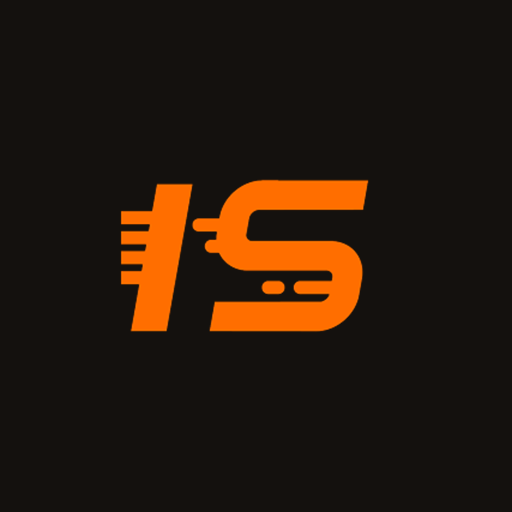
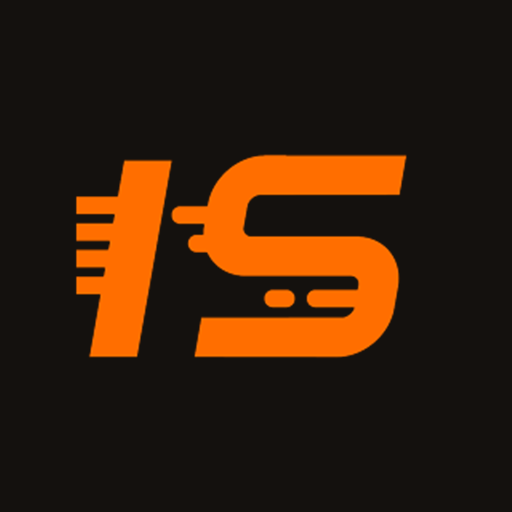
OS: icono mas grande + maskable; renombra Recepcion a Agendamiento y reordena; roles por correo (administrativa limitada); sesion persistente; abono y tipo de venta (regalo/sorteo)

Changed region(s): [[0.125, 0.2812, 0.8125, 0.7188]]

diff --git a/os/index.html b/os/index.html
@@ -322,13 +322,13 @@
     <div class="top-in">
       <div class="logo"><span class="dot"></span> IS&nbsp;Performance <small>OS · prototipo</small></div>
       <nav class="tabs" id="tabs">
-        <button data-view="recepcion" class="active">➕ Recepción</button>
+        <button data-view="recepcion" class="active">➕ Agendamiento</button>
+        <button data-view="agenda">📅 Agenda</button>
         <button data-view="seguimiento">🔧 Seguimiento</button>
+        <button data-view="clientes">👥 Clientes</button>
         <button data-view="cobro">💵 Cobro</button>
         <button data-view="costos">💰 Costos</button>
         <button data-view="panel">📊 Panel</button>
-        <button data-view="clientes">👥 Clientes</button>
-        <button data-view="agenda">📅 Agenda</button>
       </nav>
       <span class="navuser" id="nav-user-name"></span>
       <button class="logout" id="logout-btn" title="Cerrar sesión">Salir</button>
@@ -340,7 +340,7 @@
 
     <!-- ============ RECEPCIÓN ============ -->
     <section class="view active" id="view-recepcion">
-      <div class="vhead"><div class="eye">Entrada</div><h1>Recepción de vehículo</h1><p>Registra el auto que llega. Escribe y avanza con <b>Tab</b>. Los costos y el cobro van en su propia pestaña.</p></div>
+      <div class="vhead"><div class="eye">Agendamiento</div><h1>Agendar vehículo</h1><p>Registra la cita del auto. Escribe y avanza con <b>Tab</b>. Los costos y el cobro van en su propia pestaña.</p></div>
       <form id="form" class="formgrid" autocomplete="off">
         <div class="panel">
           <div class="fieldset">
@@ -377,6 +377,10 @@
             <div class="row c2">
               <label class="f"><span class="lab">Fecha coordinada</span><input name="fCoord" type="date"></label>
               <label class="f"><span class="lab">Hora coordinada</span><input name="hCoord" type="time"></label>
+            </div>
+            <div class="row c2" style="margin-top:12px">
+              <label class="f"><span class="lab">Tipo</span><select name="tipoVenta"><option>NORMAL</option><option>REGALO</option><option>SORTEO</option><option>CORTESÍA</option><option>GARANTÍA</option></select></label>
+              <label class="f"><span class="lab">Abono / anticipo $</span><input name="abono" type="number" min="0" step="1000" placeholder="0"></label>
             </div>
           </div>
         </div>
@@ -535,8 +539,8 @@
   var data = [];  // se carga desde Supabase al iniciar sesión
 
   // ---- mapeo entre el panel (camelCase) y las columnas de la base (snake_case) ----
-  function vehToDB(e){ return { marca:e.marca||null, modelo:e.modelo||null, patente:e.patente||null, anio_veh:e.anioVeh||null, talla:e.talla||'M', cliente:e.cliente||null, contacto:e.contacto||null, servicios:e.servicios||[], estado:e.estado||'AGENDADO', trabajador:e.trabajador||null, f_coord:e.fCoord||null, h_coord:e.hCoord||null, f_ingreso:e.fIngreso||null, h_ingreso:e.hIngreso||null, f_inicio:e.fInicio||null, h_inicio:e.hInicio||null, f_salida:e.fSalida||null, h_salida:e.hSalida||null, t_muerto:e.tMuerto||0, doc_tipo:e.docTipo||'BOLETA', modo_pago:e.modoPago||null, aplica_bono:e.aplicaBono||'NO', precio_venta:e.precioVenta||0, costo_producto:e.costoProducto||0, envio:e.envio||0, costo_externo:e.costoExterno||0, costo_empresa:e.costoEmpresa||0, cobrado:!!e.cobrado }; }
-  function vehFromDB(r){ return { id:r.id, marca:r.marca||"", modelo:r.modelo||"", patente:r.patente||"", anioVeh:r.anio_veh||0, talla:r.talla||"M", cliente:r.cliente||"", contacto:r.contacto||"", servicios:r.servicios||[], estado:r.estado||"AGENDADO", trabajador:r.trabajador||"", fCoord:r.f_coord||"", hCoord:r.h_coord||"", fIngreso:r.f_ingreso||"", hIngreso:r.h_ingreso||"", fInicio:r.f_inicio||"", hInicio:r.h_inicio||"", fSalida:r.f_salida||"", hSalida:r.h_salida||"", tMuerto:r.t_muerto||0, docTipo:r.doc_tipo||"BOLETA", modoPago:r.modo_pago||"", aplicaBono:r.aplica_bono||"NO", precioVenta:r.precio_venta||0, costoProducto:r.costo_producto||0, envio:r.envio||0, costoExterno:r.costo_externo||0, costoEmpresa:r.costo_empresa||0, cobrado:!!r.cobrado, media:[] }; }
+  function vehToDB(e){ return { marca:e.marca||null, modelo:e.modelo||null, patente:e.patente||null, anio_veh:e.anioVeh||null, talla:e.talla||'M', cliente:e.cliente||null, contacto:e.contacto||null, servicios:e.servicios||[], estado:e.estado||'AGENDADO', trabajador:e.trabajador||null, f_coord:e.fCoord||null, h_coord:e.hCoord||null, f_ingreso:e.fIngreso||null, h_ingreso:e.hIngreso||null, f_inicio:e.fInicio||null, h_inicio:e.hInicio||null, f_salida:e.fSalida||null, h_salida:e.hSalida||null, t_muerto:e.tMuerto||0, doc_tipo:e.docTipo||'BOLETA', modo_pago:e.modoPago||null, aplica_bono:e.aplicaBono||'NO', tipo_venta:e.tipoVenta||'NORMAL', abono:e.abono||0, precio_venta:e.precioVenta||0, costo_producto:e.costoProducto||0, envio:e.envio||0, costo_externo:e.costoExterno||0, costo_empresa:e.costoEmpresa||0, cobrado:!!e.cobrado }; }
+  function vehFromDB(r){ return { id:r.id, marca:r.marca||"", modelo:r.modelo||"", patente:r.patente||"", anioVeh:r.anio_veh||0, talla:r.talla||"M", cliente:r.cliente||"", contacto:r.contacto||"", servicios:r.servicios||[], estado:r.estado||"AGENDADO", trabajador:r.trabajador||"", fCoord:r.f_coord||"", hCoord:r.h_coord||"", fIngreso:r.f_ingreso||"", hIngreso:r.h_ingreso||"", fInicio:r.f_inicio||"", hInicio:r.h_inicio||"", fSalida:r.f_salida||"", hSalida:r.h_salida||"", tMuerto:r.t_muerto||0, docTipo:r.doc_tipo||"BOLETA", modoPago:r.modo_pago||"", aplicaBono:r.aplica_bono||"NO", tipoVenta:r.tipo_venta||"NORMAL", abono:r.abono||0, precioVenta:r.precio_venta||0, costoProducto:r.costo_producto||0, envio:r.envio||0, costoExterno:r.costo_externo||0, costoEmpresa:r.costo_empresa||0, cobrado:!!r.cobrado, media:[] }; }
   function relojFromDB(r){ return {id:r.id, trab:r.trabajador, fecha:r.fecha, hIn:r.h_in||"", hOut:r.h_out||"", desc:r.descanso||0}; }
   function gastoFromDB(r){ return {id:r.id, con:r.concepto, tipo:r.tipo, monto:r.monto, fecha:r.fecha}; }
   function sbc(){ return window.ISP_SB; }
@@ -579,6 +583,15 @@
     }
   }).catch(function(){ toast('⚠ No se pudieron cargar los datos. Recarga la página.'); }); }
   window.ISP_onLogin=loadAllData;
+
+  // ---- roles: qué pestañas ve cada correo (vacío/no listado = ve todo) ----
+  var ROLES={ 'administrativa@innovaservi.com':['recepcion','agenda','seguimiento','clientes'] };
+  function applyRole(email){
+    var allowed=ROLES[(email||'').toLowerCase()];
+    tabsEl.querySelectorAll('button').forEach(function(b){ b.style.display=(!allowed||allowed.indexOf(b.dataset.view)>=0)?'':'none'; });
+    if(allowed && allowed.indexOf(state.view)<0){ var fb=tabsEl.querySelector('button[data-view="'+allowed[0]+'"]'); if(fb) fb.click(); }
+  }
+  window.ISP_applyRole=applyRole;
   var state={ view:"recepcion", cobroSel:null, kpiOpen:null, calRef:new Date(), periodo:"mes", clienteSel:null, clienteBuscar:"" };
   var clientesInfo={};  // observaciones por cliente (tabla clientes)
 
@@ -653,7 +666,8 @@
     ev.preventDefault();
     var e={id:Date.now(),estado:"AGENDADO",cobrado:false,servicios:chosenSvcs.slice(),media:[],
       trabajador:"",fIngreso:"",hIngreso:"",fInicio:"",hInicio:"",fSalida:"",hSalida:"",tMuerto:0,docTipo:"BOLETA",modoPago:"",aplicaBono:"NO",precioVenta:0,costoProducto:0,envio:0,costoExterno:0,costoEmpresa:0};
-    ["marca","modelo","patente","anioVeh","talla","cliente","contacto","fCoord","hCoord"].forEach(function(k){ e[k]=form[k]?form[k].value:""; });
+    ["marca","modelo","patente","anioVeh","talla","cliente","contacto","fCoord","hCoord","tipoVenta"].forEach(function(k){ e[k]=form[k]?form[k].value:""; });
+    e.abono=parseFloat(form.abono.value)||0;
     e.anioVeh=parseFloat(e.anioVeh)||0; e.patente=(e.patente||"").toUpperCase();
     addVehiculo(e);
     chosenSvcs=[]; renderSvcList();
@@ -784,14 +798,15 @@
     if(!e.precioVenta){ e.precioVenta=sugerirPrecio(e); } // sugiere precio desde el catálogo según talla
     wrap.innerHTML=
     '<div class="formgrid"><div class="panel">'+
-      '<div class="fieldset"><div class="fs-title"><span class="i">▸</span> '+e.marca+' '+(e.modelo||"")+' · '+(e.patente||"—")+'</div>'+
+      '<div class="fieldset"><div class="fs-title"><span class="i">▸</span> '+e.marca+' '+(e.modelo||"")+' · '+(e.patente||"—")+(e.tipoVenta&&e.tipoVenta!=="NORMAL"?' <span class="chip pend" style="margin-left:6px">'+e.tipoVenta+'</span>':'')+'</div>'+
         '<div class="row c3">'+
           field("Documento","docTipo","select",e.docTipo,["BOLETA","FACTURA"])+
           field("Modo de pago","modoPago","select",e.modoPago,["","TRANSFERENCIA","EFECTIVO","DÉBITO","CRÉDITO"])+
-          field("Aplica bono","aplicaBono","select",e.aplicaBono,["NO","SI"])+
+          field("Tipo","tipoVenta","select",e.tipoVenta,["NORMAL","REGALO","SORTEO","CORTESÍA","GARANTÍA"])+
         '</div>'+
-        '<div class="row c2" style="margin-top:12px">'+
+        '<div class="row c3" style="margin-top:12px">'+
           field("Precio venta","precioVenta","number",e.precioVenta)+
+          field("Abono / anticipo","abono","number",e.abono)+
           '<label class="f"><span class="lab">Documento adjunto</span><button type="button" class="mediabtn" id="doc-btn" style="padding:9px">📎 Adjuntar boleta / voucher</button></label>'+
         '</div>'+
       '</div>'+
@@ -806,6 +821,8 @@
     '<aside class="summary"><div class="panel sum-card"><div class="sum-head"><div class="t">◆ Resumen automático</div></div>'+
       '<div class="sum-body">'+
         '<div class="sline"><span class="k">Precio venta</span><span class="v num" id="c-precio">'+clp(e.precioVenta)+'</span></div>'+
+        '<div class="sline"><span class="k">Abono / anticipo</span><span class="v num" id="c-abono">'+clp(e.abono)+'</span></div>'+
+        '<div class="sline"><span class="k">Saldo a cobrar</span><span class="v num" id="c-saldo" style="color:var(--accent-ink);font-weight:800">'+clp((e.precioVenta||0)-(e.abono||0))+'</span></div>'+
         '<div class="sline"><span class="k">IVA incluido (19%)</span><span class="v num" id="c-iva">'+clp(iva(e.precioVenta))+'</span></div>'+
         '<div class="sline"><span class="k">Costo total</span><span class="v num" id="c-costo">'+clp(costoTotal(e))+'</span></div>'+
         '<div class="sline big util'+(utilidad(e)<0?' neg':'')+'"><span class="k">Utilidad</span><span class="v num" id="c-util">'+clp(utilidad(e))+'</span></div>'+
@@ -816,12 +833,14 @@
 
     var f=wrap.querySelector(".formgrid");
     function readForm(){
-      ["docTipo","modoPago","aplicaBono"].forEach(function(k){ var el=f.querySelector('[name="'+k+'"]'); if(el)e[k]=el.value; });
-      ["precioVenta","costoProducto","envio","costoExterno","costoEmpresa"].forEach(function(k){ var el=f.querySelector('[name="'+k+'"]'); if(el)e[k]=parseFloat(el.value)||0; });
+      ["docTipo","modoPago","tipoVenta"].forEach(function(k){ var el=f.querySelector('[name="'+k+'"]'); if(el)e[k]=el.value; });
+      ["precioVenta","abono","costoProducto","envio","costoExterno","costoEmpresa"].forEach(function(k){ var el=f.querySelector('[name="'+k+'"]'); if(el)e[k]=parseFloat(el.value)||0; });
     }
     function refresh(){
       readForm();
       wrap.querySelector("#c-precio").textContent=clp(e.precioVenta);
+      wrap.querySelector("#c-abono").textContent=clp(e.abono);
+      wrap.querySelector("#c-saldo").textContent=clp((e.precioVenta||0)-(e.abono||0));
       wrap.querySelector("#c-iva").textContent=clp(iva(e.precioVenta));
       wrap.querySelector("#c-costo").textContent=clp(costoTotal(e));
       wrap.querySelector("#c-util").textContent=clp(utilidad(e));
@@ -1025,7 +1044,7 @@
     var svcs=Object.keys(c.servicios).sort(function(a,b){return c.servicios[b]-c.servicios[a];}).map(function(s){var n=c.servicios[s];return '<span>'+svcCorto(s)+(n>1?' ('+n+'×)':'')+'</span>';}).join("")||'<span style="opacity:.5">—</span>';
     var hist=c.items.slice().sort(function(a,b){var fa=a.fCoord||a.fIngreso||"",fb=b.fCoord||b.fIngreso||"";return fa<fb?1:-1;}).map(function(e){
       var st=e.cobrado?'<span class="chip cobrado">Cobrado</span>':'<span class="chip '+estClass(e.estado)+'">'+e.estado+'</span>';
-      return '<tr><td>'+fFecha(e.fCoord||e.fIngreso)+'</td><td><b>'+e.marca+'</b> '+(e.modelo||"")+'</td><td>'+((e.servicios||[]).map(svcCorto).join(" + ")||"—")+'</td><td>'+st+'</td><td class="r">'+clp(e.precioVenta)+'</td></tr>';
+      return '<tr><td>'+fFecha(e.fCoord||e.fIngreso)+'</td><td><b>'+e.marca+'</b> '+(e.modelo||"")+'</td><td>'+((e.servicios||[]).map(svcCorto).join(" + ")||"—")+(e.tipoVenta&&e.tipoVenta!=="NORMAL"?' <span class="chip pend">'+e.tipoVenta+'</span>':'')+'</td><td>'+st+'</td><td class="r">'+clp(e.precioVenta)+'</td></tr>';
     }).join("");
     var info=clientesInfo[c.clave]||{};
     wrap.innerHTML='<div class="ficha">'+
@@ -1105,14 +1124,18 @@
   }
   var sb=window.supabase.createClient(
     'https://fyjvcnqklgzrscgpytqj.supabase.co',
-    'sb_publishable_yxIzCk7NCZRHoy6HuSjgaQ_PHLJ9JSv'
+    'sb_publishable_yxIzCk7NCZRHoy6HuSjgaQ_PHLJ9JSv',
+    { auth: { persistSession: true, autoRefreshToken: true, storage: window.localStorage } }
   );
-  window.ISP_SB=sb; // disponible para la capa de datos (siguiente paso)
+  window.ISP_SB=sb; // disponible para la capa de datos
+
+  function entrar(email){ abrir(email); if(window.ISP_applyRole) window.ISP_applyRole(email); }
 
   sb.auth.getSession().then(function(res){
     var s=res && res.data && res.data.session;
-    if(s) abrir(s.user && s.user.email);
+    if(s) entrar(s.user && s.user.email);
   });
+  sb.auth.onAuthStateChange(function(evt,session){ if(session && evt==='SIGNED_IN'){ entrar(session.user && session.user.email); } });
 
   form.addEventListener('submit',function(e){
     e.preventDefault();
@@ -1123,7 +1146,7 @@
     sb.auth.signInWithPassword({ email:email, password:pass }).then(function(res){
       btn.disabled=false; btn.textContent='Ingresar';
       if(res.error){ showErr('Correo o contraseña incorrectos.'); }
-      else { abrir(email); }
+      else { entrar(email); }
     });
   });
   document.getElementById('logout-btn').addEventListener('click',function(){

diff --git a/os/sw.js b/os/sw.js
@@ -1,6 +1,6 @@
 /* IS Performance OS — Service Worker (PWA) */
-var CACHE = 'isp-os-v1';
-var SHELL = ['/os/', '/os/index.html', '/os/icon-192.png', '/os/icon-512.png', '/os/apple-touch-icon.png', '/os/manifest.webmanifest'];
+var CACHE = 'isp-os-v2';
+var SHELL = ['/os/', '/os/index.html', '/os/icon-192.png', '/os/icon-512.png', '/os/maskable-512.png', '/os/apple-touch-icon.png', '/os/manifest.webmanifest'];
 
 self.addEventListener('install', function (e) {
   e.waitUntil(caches.open(CACHE).then(function (c) { return c.addAll(SHELL); }).then(function () { return self.skipWaiting(); }));
